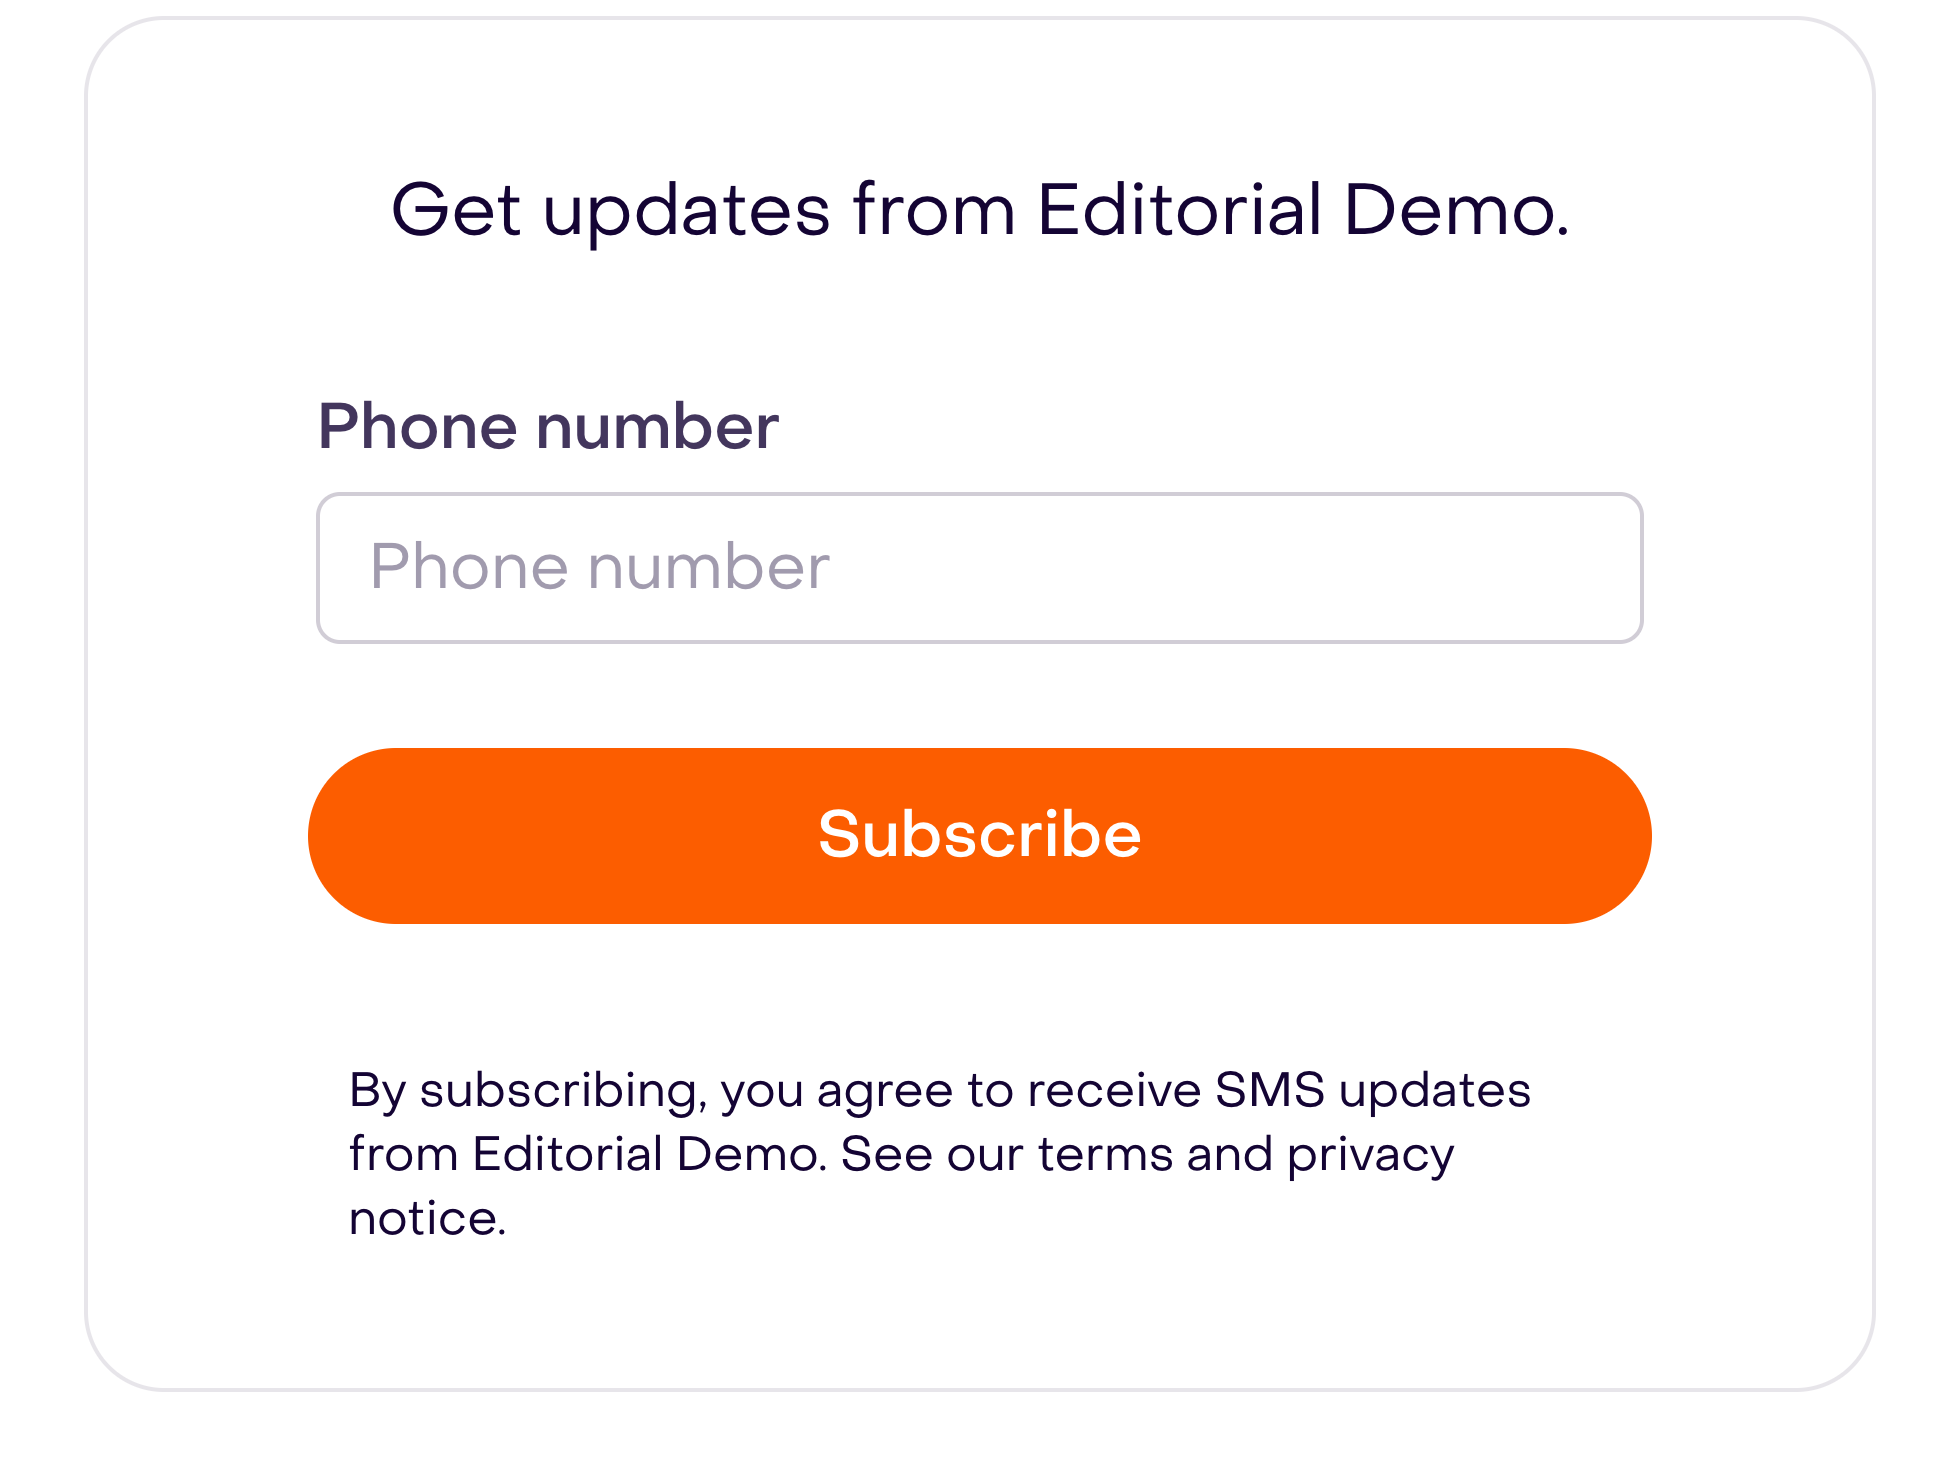
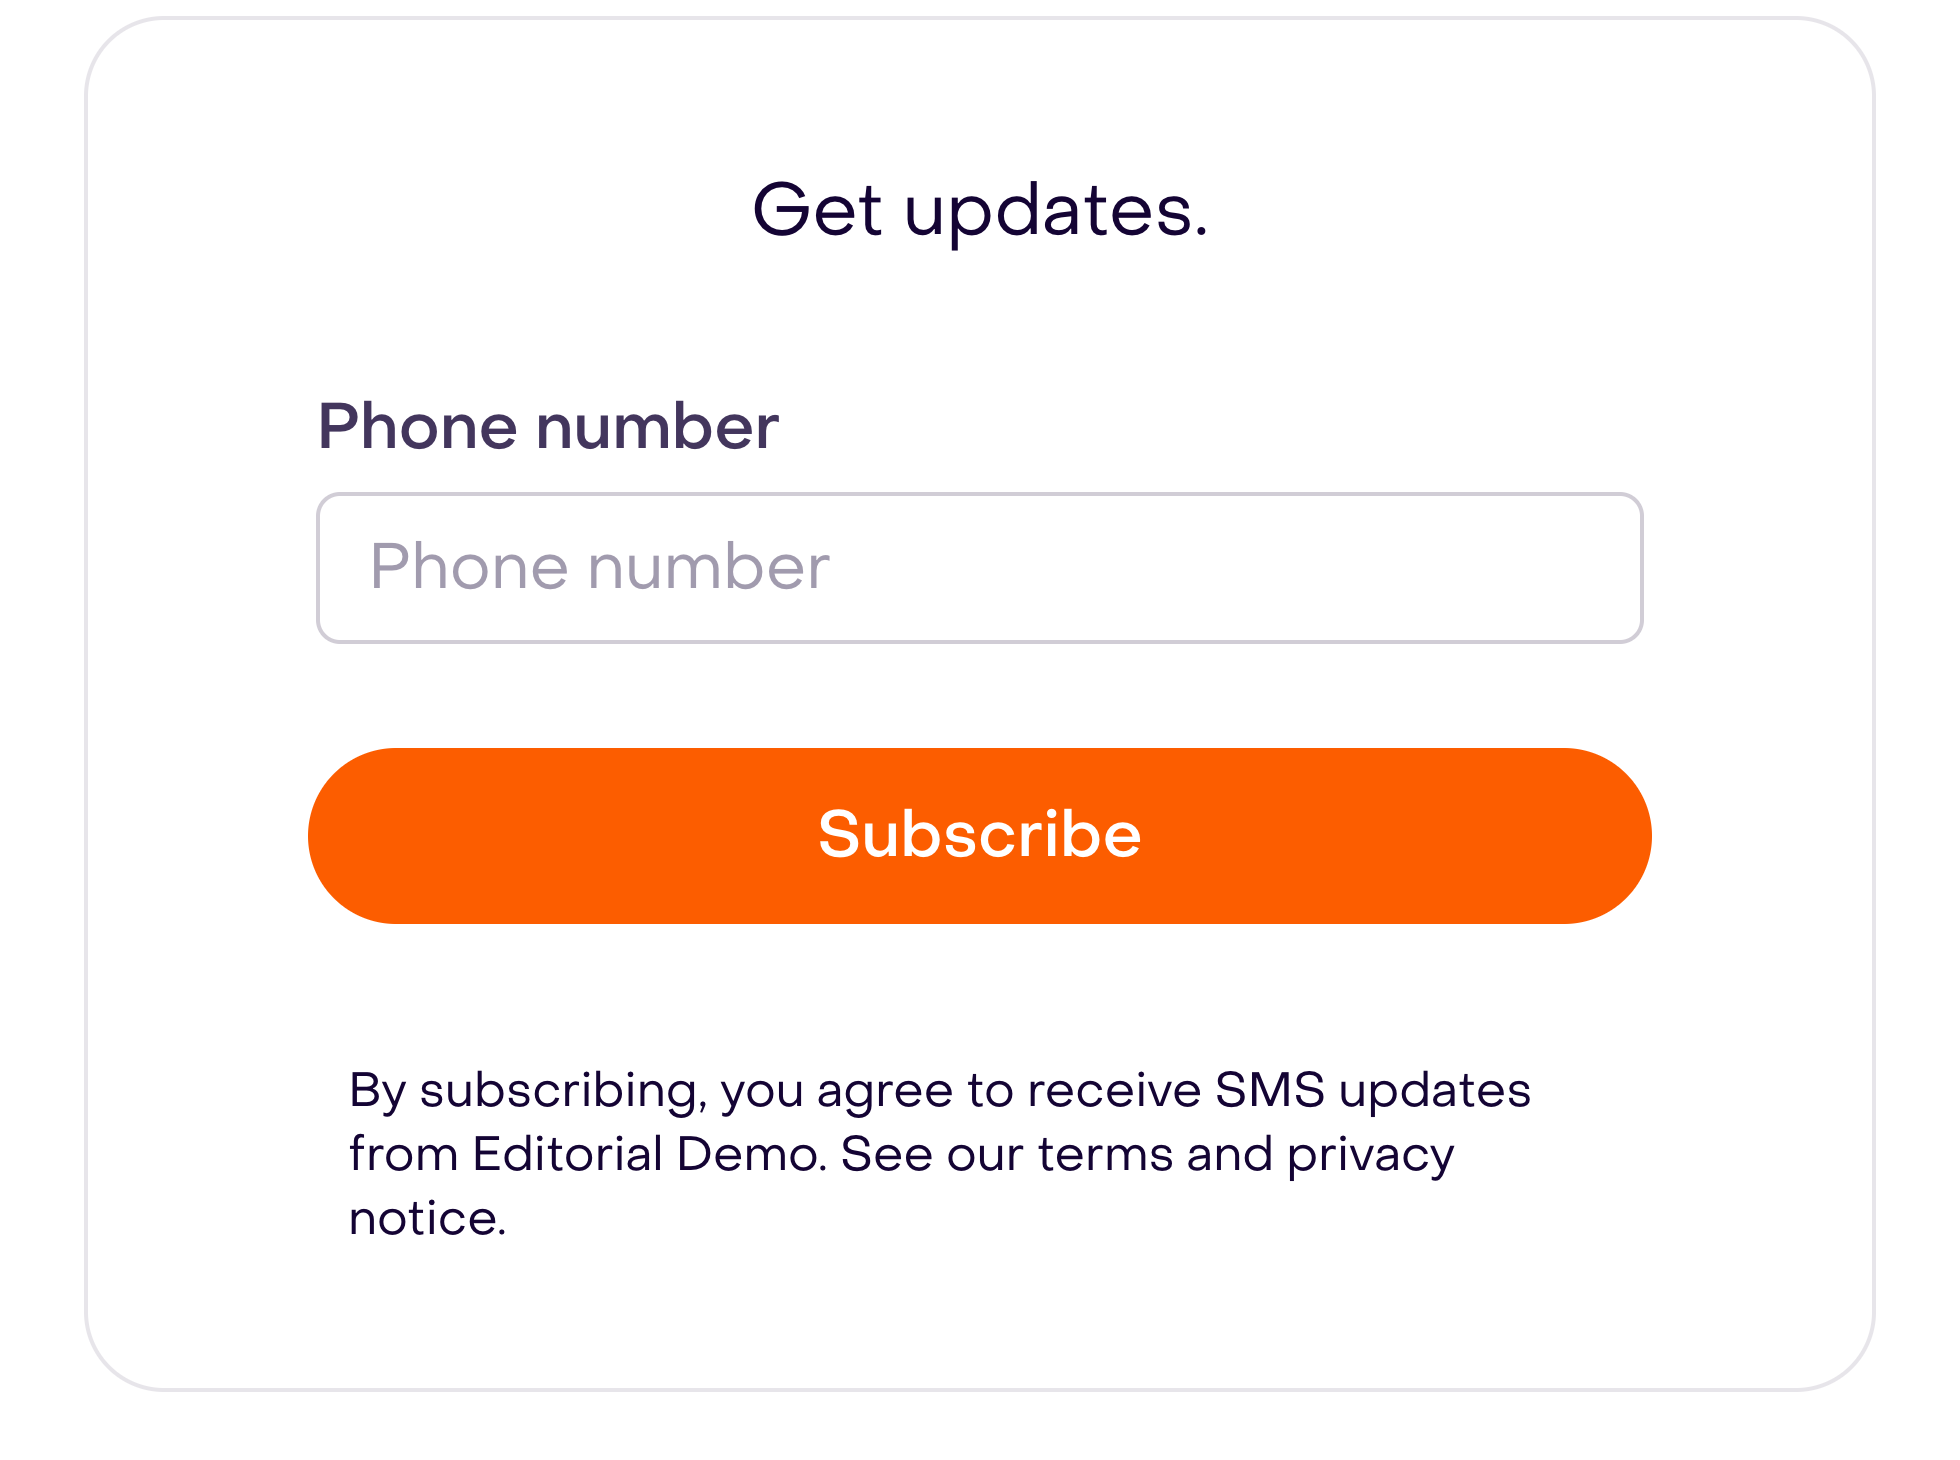
Finish bilingual Website Form guide visuals

Changed region(s): [[0.1867, 0.1233, 0.8092, 0.1849]]

diff --git a/docs/editorial-work/captures/forms/localize-fixture.rb b/docs/editorial-work/captures/forms/localize-fixture.rb
@@ -13,7 +13,7 @@ copy = {
   'es' => { header: 'Recibe novedades de Editorial Demo.', label: 'Teléfono',
             placeholder: 'Número de teléfono', button: 'Suscribirme',
             footer: 'Al suscribirte, aceptas recibir mensajes SMS de Editorial Demo. Consulta nuestros términos y aviso de privacidad.' },
-  'en' => { header: 'Get updates from Editorial Demo.', label: 'Phone number',
+  'en' => { header: 'Get updates.', label: 'Phone number',
             placeholder: 'Phone number', button: 'Subscribe',
             footer: 'By subscribing, you agree to receive SMS updates from Editorial Demo. See our terms and privacy notice.' }
 }

diff --git a/docs/editorial-work/forms.md b/docs/editorial-work/forms.md
@@ -12,7 +12,7 @@ The catalog labels its group **Captura/Capture**, singular. The live Spanish edi
 
 The isolated clone is `hellotext_editorial_workload_20260928`, business 5 (`4ONLdN32`), and fictitious account `design-system@example.test`, restored to ES after bilingual captures. A read-only Rails preflight found 127 contacts, zero subscribed contacts and zero existing forms. `captures/forms/fixture.rb` ran first in rollback mode and then exactly once in commit mode with exact DB/business/account/contact/subscriber/form-count guards. It created only form `3oDXBQG4` and capture 2, explicitly in `draft`, with one phone field, SMS-matched consent, zero submissions and no coupon/journey. It did not submit a form, send a verification message or change any contact. Do not run the script again: its zero-form guard intentionally prevents repetition. `captures/forms/localize-fixture.rb` switched only the fictitious owner locale and form copy for EN screenshots under its own guards and rollback dry run, then restored ES under the same guards. The final restore confirmed zero submissions and subscribers.
 
-The dedicated Chrome process on loopback port 9341 has one local tab and a private temporary profile. The wizard omits the account menu; its fictional identity was verified by a same-origin GET to the playbook catalog and exact email match. `script/capture_isolated_chrome.mjs` and `script/sign_in_isolated_chrome.mjs` now accept a bounded `--identity-url` for that catalog; the capture tool checks it before and after a PNG. Eight focused ES/EN candidate sources were captured at Display P3 and four source pixels per CSS pixel, visually inspected, and copied byte-identically to the article asset paths. Exact URLs, clips, dimensions, hashes, and safety guard are in `captures/forms/capture-provenance.json`. The older full-page probes are rejected because they show a development timing overlay and excessive whitespace. Narrow mobile field probes were also rejected because the editor's popover overlaps cut background text and the information banner; do not publish those probes. The full field settings image needs a readable native mobile alternative before this pair can be marked locally verified or published.
+The dedicated Chrome process on loopback port 9341 has one local tab and a private temporary profile. The wizard omits the account menu; its fictional identity was verified by a same-origin GET to the playbook catalog and exact email match. `script/capture_isolated_chrome.mjs` and `script/sign_in_isolated_chrome.mjs` now accept a bounded `--identity-url` for that catalog; the capture tool checks it before and after a PNG. Eleven focused sources were captured at Display P3 and four source pixels per CSS pixel, visually inspected, and copied byte-identically to the article asset paths. Exact URLs, clips, dimensions, hashes, and safety guard are in `captures/forms/capture-provenance.json`. The older full-page probes were rejected because they show a development timing overlay and excessive whitespace. Early mobile field probes cut background text or the information banner and were rejected. The final mobile field sources use the exact `dropdown-container` element bounds measured in the isolated page, showing every setting at a readable width without unrelated background. The English fictitious form header was shortened to “Get updates.” under the guarded localization script to avoid background text at the popover edge; the English preview and field source were recaptured for consistency. The desktop embed card made its code too small on mobile, so the approved mobile variant focuses on the native code panel. Guarded ES and EN captures of this language-neutral panel matched byte for byte; it is stored once under `images/captures/forms/shared/`. The owner and form copy were then restored to ES, with the capture still draft and no submissions or subscribed contacts.
 
 ## Section-by-section visual plan
 
@@ -32,6 +32,6 @@ For every new figure, prepare desktop and mobile-native crops in ES/EN as needed
 
 ## Current local verification and remaining work
 
-The eight visually approved desktop sources are staged at `images/captures/forms/{es,en}/{preview,fields,optional,embed}.png`, with byte-identical copies and provenance under this record's `captures/forms/` directory. Both articles now have five figures: the previously approved catalog image plus those four distinct controls or results. No duplicate catalog asset was added. The old JPEG references were removed from both articles; their files remain in the repository pending a usage check. The native field-settings crop is 830 CSS pixels wide: at a narrow Help viewport its labels become too small. Mobile probe crops either cut the editor's background text or information banner, so they were rejected and are not staged. A clean, readable ES/EN mobile field image, followed by full-page mobile review, is the outstanding visual debt. Do not push or open a PR with this pair yet.
+The eleven visually approved sources are staged at `images/captures/forms/{es,en}/{preview,fields,fields-mobile,optional,embed}.png` and `images/captures/forms/shared/embed-mobile.png`, with byte-identical copies and provenance under this record's `captures/forms/` directory. Both articles have five figures: the previously approved catalog image plus four distinct controls or results. The field and embed figures use narrower native panels on mobile; no duplicate catalog or language-neutral code asset was added. The old JPEG references were removed from both articles; their files remain in the repository pending a usage check. Full-page desktop and mobile review found five figures per locale, no horizontal overflow at 390 CSS pixels, correct mobile source selection, and legible labels and copy in each figure section.
 
-The production `yarn build` passed under the repository's Ruby 3.3.6, including the security-header verifier. The generated English and Spanish HTML each contain five static figures and no old JPEG reference; all eight built PNGs match their approved source hashes and `docs/editorial-work/captures/forms/` is excluded from `_site`. The complete Spanish guide was inspected in the local browser accessibility tree. English full-page and desktop/mobile visual review are still required. An initial build with macOS Ruby 2.6 completed Jekyll but failed the verifier because that Ruby lacks `filter_map`; the required Ruby 3.3.6 build resolved the environment issue. `git diff --check` passed. Installing `ws` changed tracked `node_modules`; those accidental changes were restored and the temporary untracked package removed before the pending commit.
+The final production `yarn build` passed under the repository's Ruby 3.3.6, including the security-header verifier. The generated English and Spanish HTML each contain five static figures and no old JPEG reference. All eleven source/asset/build PNG hashes match, and `docs/editorial-work/captures/forms/` is excluded from `_site`. The complete Spanish and English guides were inspected in the local browser accessibility tree and in an isolated Chrome at 1280 CSS desktop and 390 CSS mobile widths. Every figure loaded without horizontal overflow; the focused mobile code image is legible in both locales. An initial build with macOS Ruby 2.6 completed Jekyll but failed the verifier because that Ruby lacks `filter_map`; Ruby 3.3.6 resolved the environment issue. Accidental tracked and untracked `node_modules` changes from the temporary `ws` install were removed. `git diff --check` passed.

diff --git a/_i18n/en/captures/forms.md b/_i18n/en/captures/forms.md
@@ -65,7 +65,7 @@ The form editor lets you configure four parts.
 <figure class="ht-editorial-visual ht-editorial-visual--screenshot" aria-label="Preview of a fictional form with heading, phone field, button and SMS notice">
   <div class="ht-editorial-visual__stage">
     <div class="ht-editorial-visual__image-frame">
-      <img class="ht-editorial-visual__image" src="/images/captures/forms/en/preview.png" width="1960" height="1460" loading="lazy" decoding="async" alt="Fictional form with a Get updates from Editorial Demo heading, Phone number field, Subscribe button and SMS consent notice." />
+      <img class="ht-editorial-visual__image" src="/images/captures/forms/en/preview.png" width="1960" height="1460" loading="lazy" decoding="async" alt="Fictional form with a Get updates heading, Phone number field, Subscribe button and SMS consent notice." />
     </div>
   </div>
   <figcaption class="ht-editorial-visual__caption">The preview shows the form's four parts together. Its SMS notice matches the phone field.</figcaption>
@@ -78,7 +78,10 @@ The heading contains the title and supporting content shown before the fields. U
 <figure class="ht-editorial-visual ht-editorial-visual--screenshot" aria-label="Phone field settings in the form editor">
   <div class="ht-editorial-visual__stage">
     <div class="ht-editorial-visual__image-frame">
-      <img class="ht-editorial-visual__image" src="/images/captures/forms/en/fields.png" width="3320" height="2480" loading="lazy" decoding="async" alt="Fictional Phone field settings with type, label, placeholder and Required control." />
+      <picture>
+        <source media="(max-width: 600px)" srcset="/images/captures/forms/en/fields-mobile.png" width="1536" height="1344" />
+        <img class="ht-editorial-visual__image" src="/images/captures/forms/en/fields.png" width="3320" height="2480" loading="lazy" decoding="async" alt="Fictional Phone field settings with type, label, placeholder and Required control." />
+      </picture>
     </div>
   </div>
   <figcaption class="ht-editorial-visual__caption">Select a field in the preview to set its type, label, placeholder and whether it is required.</figcaption>
@@ -137,7 +140,10 @@ The generated code contains the identifier Hellotext uses to load the form defin
 <figure class="ht-editorial-visual ht-editorial-visual--screenshot" aria-label="Generated HTML for embedding the form">
   <div class="ht-editorial-visual__stage">
     <div class="ht-editorial-visual__image-frame">
-      <img class="ht-editorial-visual__image" src="/images/captures/forms/en/embed.png" width="2100" height="2100" loading="lazy" decoding="async" alt="Embed card showing the generated HTML for a fictional form." />
+      <picture>
+        <source media="(max-width: 600px)" srcset="/images/captures/forms/shared/embed-mobile.png" width="1664" height="820" />
+        <img class="ht-editorial-visual__image" src="/images/captures/forms/en/embed.png" width="2100" height="2100" loading="lazy" decoding="async" alt="Embed card showing the generated HTML for a fictional form." />
+      </picture>
     </div>
   </div>
   <figcaption class="ht-editorial-visual__caption">The snippet includes the form identifier and the parts Hellotext fills in when it loads on your page.</figcaption>

diff --git a/_i18n/es/captures/forms.md b/_i18n/es/captures/forms.md
@@ -78,7 +78,10 @@ El encabezado contiene el título y el contenido de apoyo que aparecen antes de 
 <figure class="ht-editorial-visual ht-editorial-visual--screenshot" aria-label="Configuración del campo Teléfono en el editor de formularios">
   <div class="ht-editorial-visual__stage">
     <div class="ht-editorial-visual__image-frame">
-      <img class="ht-editorial-visual__image" src="/images/captures/forms/es/fields.png" width="3320" height="2480" loading="lazy" decoding="async" alt="Panel de un campo Teléfono ficticio con tipo, etiqueta, marcador de posición y control Requerido." />
+      <picture>
+        <source media="(max-width: 600px)" srcset="/images/captures/forms/es/fields-mobile.png" width="1536" height="1344" />
+        <img class="ht-editorial-visual__image" src="/images/captures/forms/es/fields.png" width="3320" height="2480" loading="lazy" decoding="async" alt="Panel de un campo Teléfono ficticio con tipo, etiqueta, marcador de posición y control Requerido." />
+      </picture>
     </div>
   </div>
   <figcaption class="ht-editorial-visual__caption">Selecciona un campo en la vista previa para ajustar su tipo, etiqueta, marcador de posición y obligatoriedad.</figcaption>
@@ -137,7 +140,10 @@ El código contiene el identificador que Hellotext utiliza para cargar la defini
 <figure class="ht-editorial-visual ht-editorial-visual--screenshot" aria-label="Código HTML generado para integrar el formulario">
   <div class="ht-editorial-visual__stage">
     <div class="ht-editorial-visual__image-frame">
-      <img class="ht-editorial-visual__image" src="/images/captures/forms/es/embed.png" width="2100" height="2100" loading="lazy" decoding="async" alt="Tarjeta de integración que muestra el HTML generado para el formulario ficticio." />
+      <picture>
+        <source media="(max-width: 600px)" srcset="/images/captures/forms/shared/embed-mobile.png" width="1664" height="820" />
+        <img class="ht-editorial-visual__image" src="/images/captures/forms/es/embed.png" width="2100" height="2100" loading="lazy" decoding="async" alt="Tarjeta de integración que muestra el HTML generado para el formulario ficticio." />
+      </picture>
     </div>
   </div>
   <figcaption class="ht-editorial-visual__caption">El snippet incluye el identificador del formulario y las partes que Hellotext completa al cargarlo en tu página.</figcaption>
